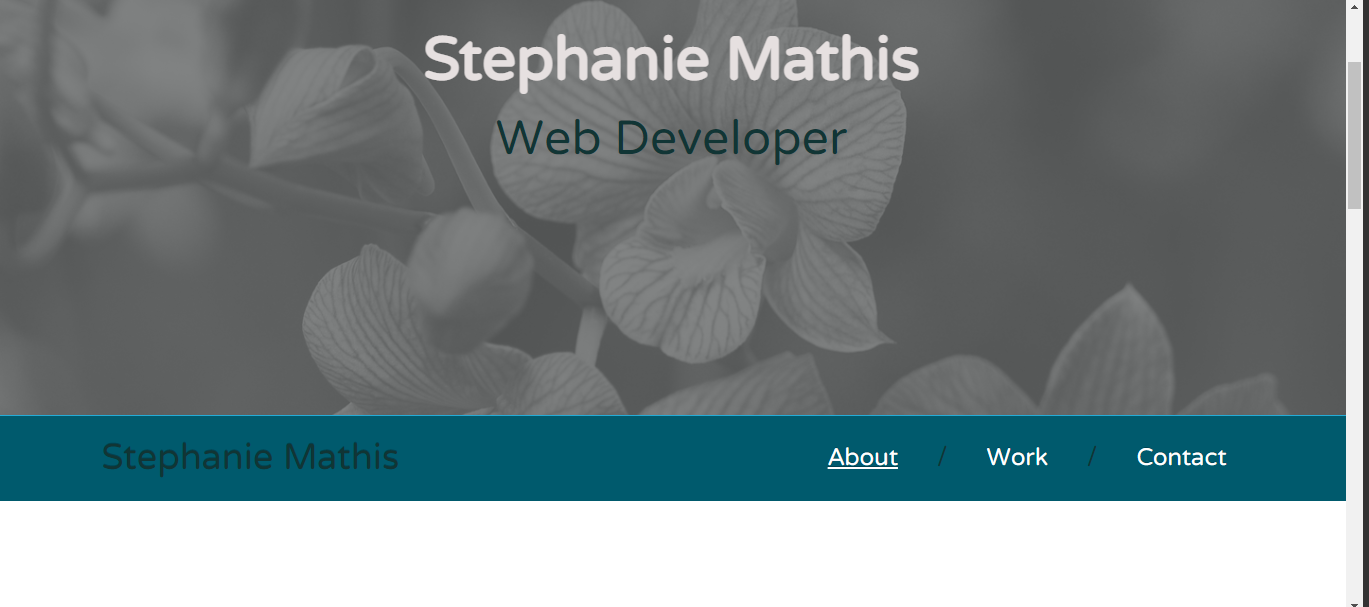
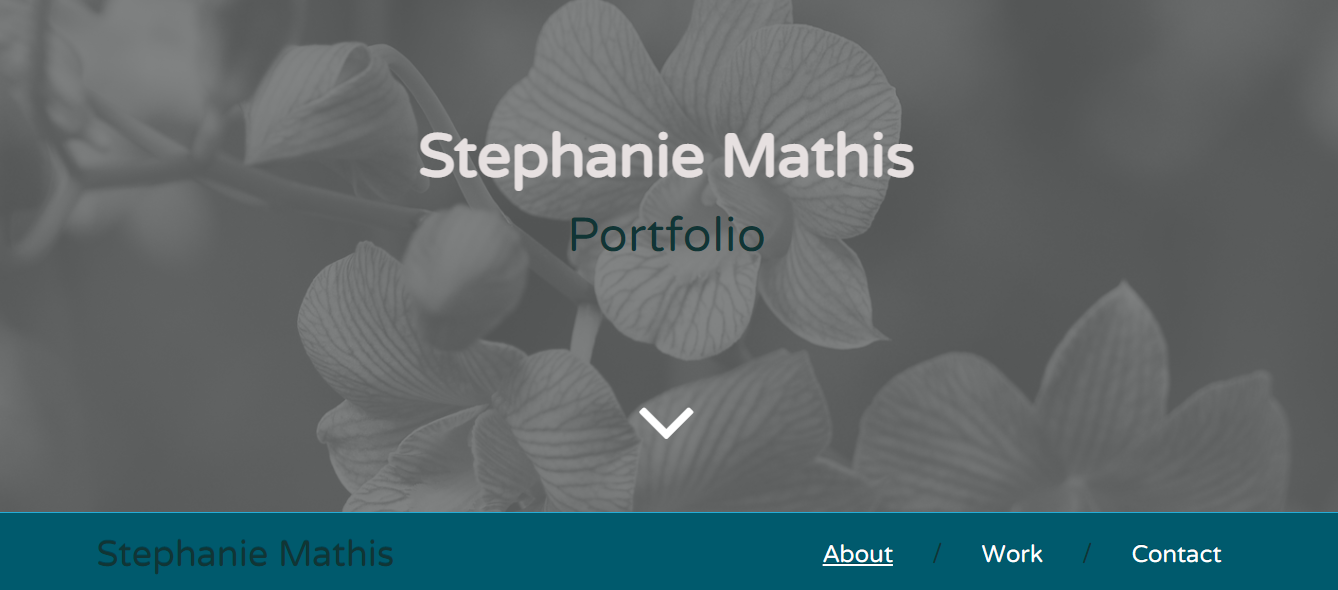
update portfolio project section

diff --git a/index.html b/index.html
@@ -31,7 +31,7 @@
 			<div class="maskHeader"></div>
 			<div class="vert-text">
 				<h1>Stephanie Mathis</h1>
-				<h2>Web Developer</h2>
+				<h2>Portfolio</h2>
 
 			</div>
 			<div class="navbar-nav">
@@ -87,7 +87,7 @@
 					<div class="build about-content">
 						<p class="text-center">Hello, I&#39;m Stephanie Mathis. I&#39;m a full-time International
 							Educator enrolled in Georgia Tech's Full-Stack Web Development program.
-							I reside in Atlanta, Georgia and am looking to secure employment as a web developer after
+							I reside in Atlanta, Georgia and am looking to secure full-time employment in the field after
 							receiving my certificate. In the meantime, I look forward to collaborating with others and
 							growing in the tech space.</p>
 
@@ -138,7 +138,6 @@
 													</div>
 												</div>
 											</div>
-
 										</div>
 									</div>
 								</li>
@@ -163,6 +162,28 @@
 									</div>
 								</li>
 								<li class="box" data-id="id-3" data-type="ilustrator">
+									<div class="folio-img build">
+										<div class="portfolio-item">
+											<div class="thumbnail">
+												<div class="thumb-img">
+													<a href="https://sdm1984.github.io/Web-APIs-Code-Quiz/">
+														<img src="assets/Code Quiz.png"
+															class="linear img-portfolio img-responsive"
+															alt="Code Quiz Image"></a>
+													<div class="link"><a
+															href="https://sdm1984.github.io/Web-APIs-Code-Quiz/" img
+															class="linear img-portfolio img-responsive"></div>
+													<div class="folio-caption">
+														<p>Code Quiz</p>
+													</div>
+												</div>
+											</div>
+										</div>
+									</div>
+								<br>
+								<br>
+								</li>
+								<li class="box" data-id="id-4" data-type="ilustrator">
 									<div class="folio-img build">
 										<div class="portfolio-item">
 											<div class="thumbnail">
